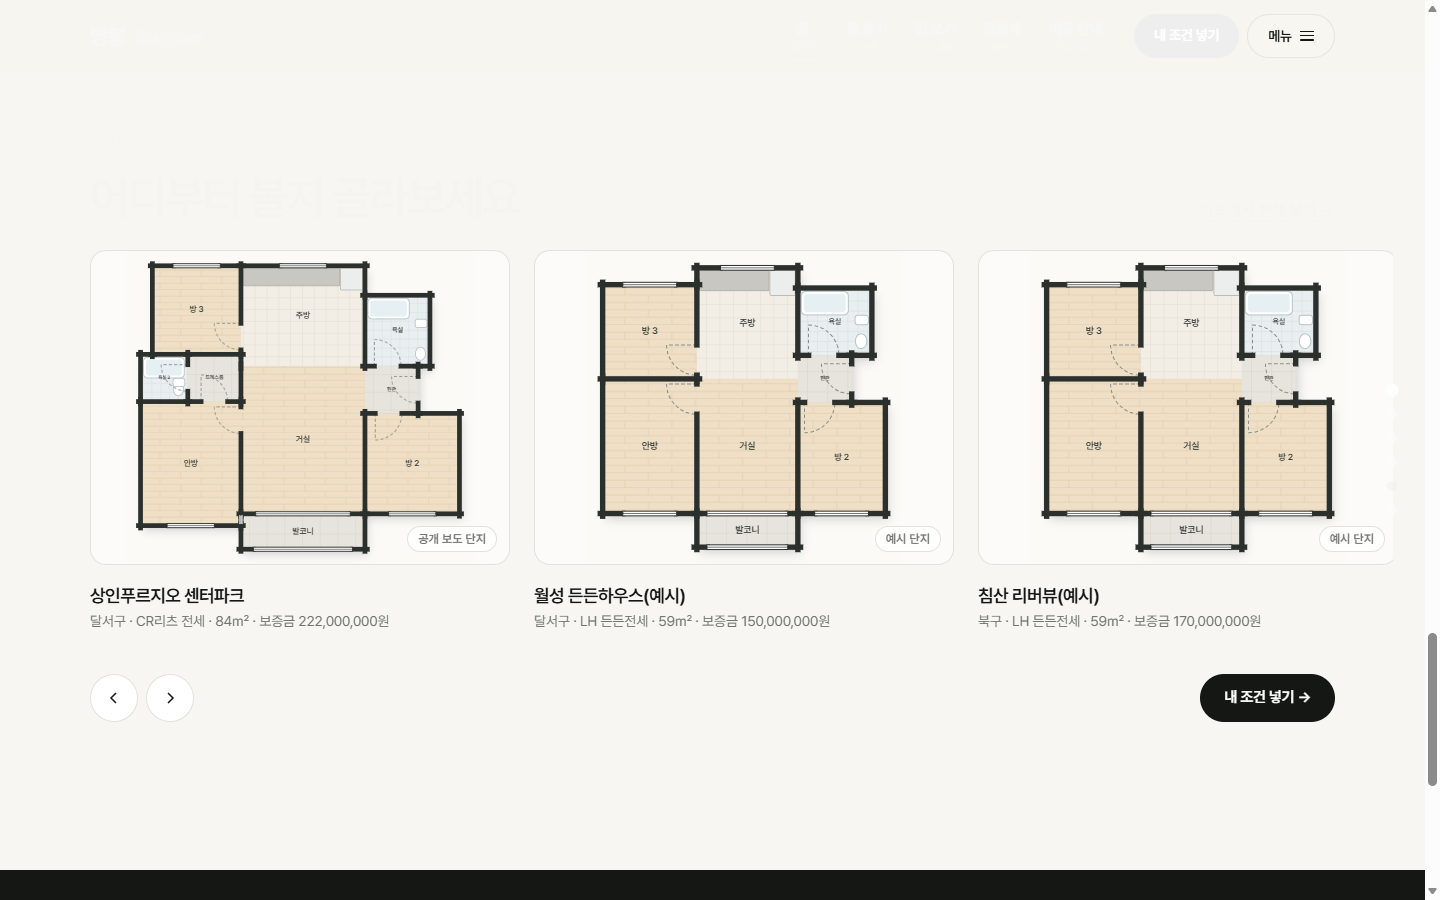
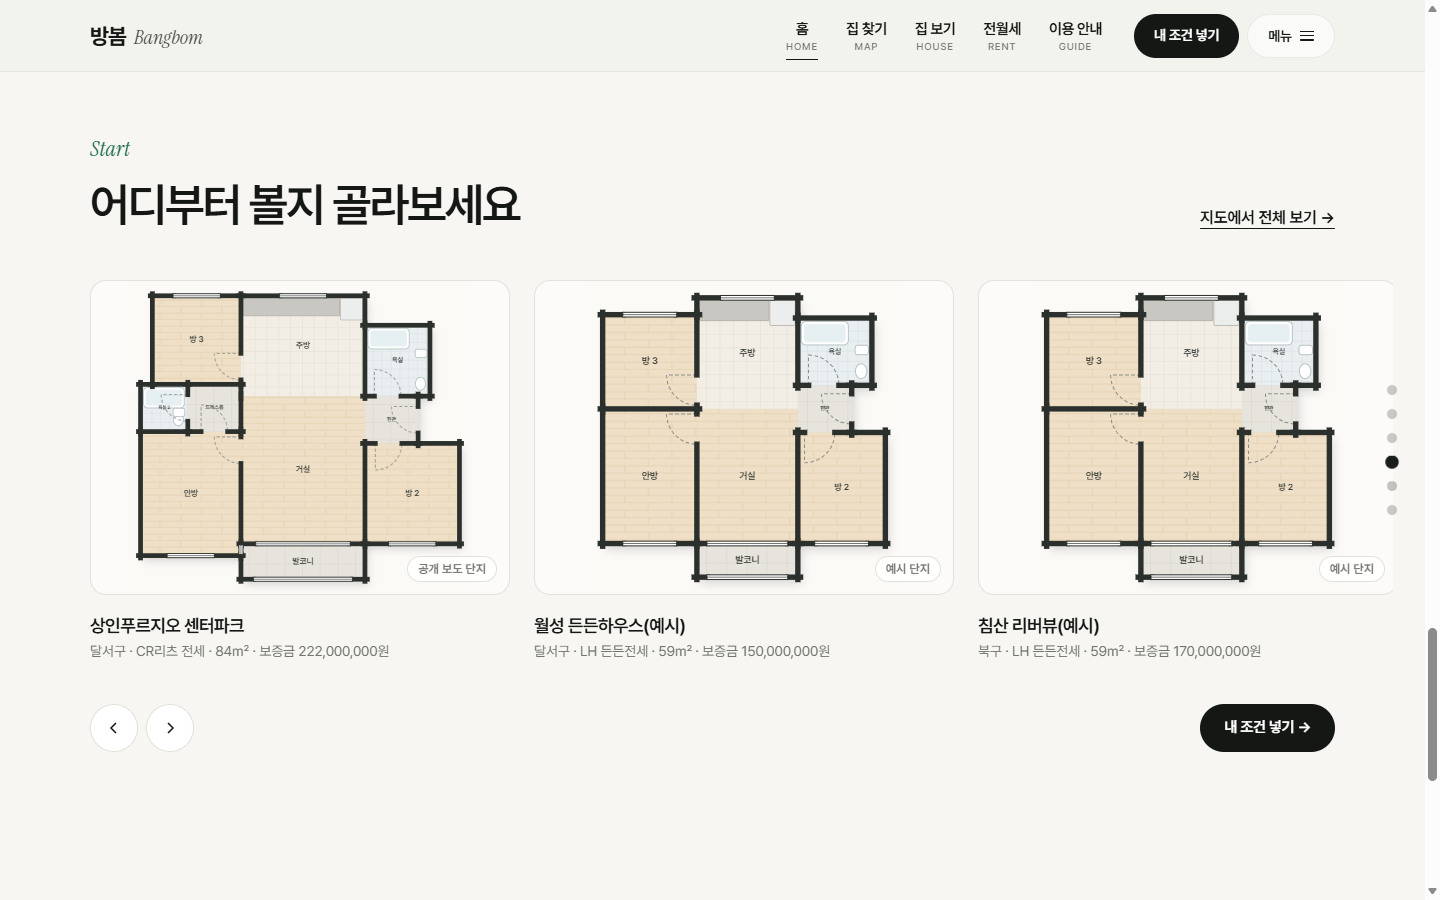
시연 영상 참고 그림 18장을 지금 사이트에서 모두 새로 찍고 요청서 그림 목록 갱신

diff --git a/reports/시연영상_기획요청_Gemini.md b/reports/시연영상_기획요청_Gemini.md
@@ -3,7 +3,7 @@
 > 이 문서를 받는 AI(Gemini)에게: 아래 서비스 "방봄"의 **시연 녹화 영상 기획안**을 만들어 주세요.
 > 참고 화면은 같은 폴더의 `video-ref/` 그림 18장이에요(파일 이름에 번호와 화면 이름이 있어요).
 > 공개 사이트: https://bangkkumi2.vercel.app
-> 고친 날: 2026-11-27 (평면도 모양, 지도, 집 보기 화면이 바뀌어서 그림 05·08·09를 새로 찍고 16~18을 더했어요)
+> 고친 날: 2026-11-27. 그림 18장은 모두 이날 사이트에서 새로 찍었어요 (PC 1440×900, 휴대폰 390×844)
 
 ---
 
@@ -57,7 +57,7 @@
 - **지도의 "전월세 기록" 단추**: 누르면 건물 자리마다 파란 점이 생기고, 점을 누르면 그 건물의 월세·전세 중간값과 최근 계약 목록 카드가 열려요.
 - 장면 아이디어: 사용자가 "원룸"과 "월세 50만 원 이하"를 고르면 목록이 줄어들고, 지도로 넘어가 파란 점을 누르면 카드가 열리는 흐름.
 - 지켜 주세요: 카드에는 **"신고된 지난 계약이에요 · 지금 나와 있는 매물은 아니에요"** 문구가 있어요. 영상에서도 "지금 매물"이라고 말하지 말아 주세요.
-- 주의: 그림 12, 13의 "검사 건물 ○" 이름과 금액은 화면 확인용 임시 자료예요. 영상에서는 그럴듯한 대구 동네 이름(범어동, 대명동, 침산동 등)과 현실적인 금액으로 바꿔 주세요.
+- 주의: 그림 12, 13의 "예시 빌라 ○" 같은 건물 이름과 금액은 화면 모양을 보이려고 잠깐 넣은 **시연용 예시 자료**예요(출처 칸에도 "시연용 예시"라고 나와요). 영상에서는 그럴듯한 건물 이름과 현실적인 금액으로 바꿔 주세요.
 
 ### 4-2. AI 실사 렌더링 (그림 11)
 - 방꾸미 3D 화면에서 가구 배치를 끝내고 **[AI 렌더링]** 단추를 누르면, 같은 배치를 **실사 사진처럼** 바꿔서 창으로 보여 주는 기능이에요(Gemini 이미지 모델 연결).
@@ -91,21 +91,21 @@
 
 | 파일 | 화면 |
 | :-- | :-- |
-| 01_홈_히어로.jpg | 홈 첫 화면 (히어로 + AI 상담 카드) |
-| 02_홈_문제.jpg | 문제: 67.6% · 3,077세대 |
-| 03_홈_해결1_지원찾기.jpg | 해결 1: 조건 → 하나씩 따지기 → 같이 못 받는 것 거르기 |
-| 04_홈_해결2_지도집보기.jpg | 해결 2: 지도 · 평면도와 3D · 가구 (칩으로 바꿔 보기) |
-| 05_홈_시작하기.png | 시작하기: 단지 평면 카드 (새 평면도 모양. 제목이 나타나는 중에 찍혀서 흐려요) |
-| 06_지도_판정결과.png | 지도 + 판정 결과 패널 ("이렇게 하면 열려요"). 예전 그림이라 배경 건물이 적어요. 지금 지도는 그림 16처럼 빽빽해요 |
-| 07_단지카드_크게보기.png | 단지 카드 크게 보기 (평면도는 예전 직사각형 모양. 지금은 그림 16의 카드처럼 들쭉날쭉한 모양) |
-| 08_집전체_3D_위에서.png | 집 전체 3D (위에서) |
-| 09_집전체_3D_걷기.png | 집 전체 3D (안에서 걷기) |
-| 10_방꾸미_3D.png | 방꾸미 3D (가구 놓기) |
+| 01_홈_히어로.png | 홈 첫 화면 (히어로 + AI 상담 카드) |
+| 02_홈_문제.png | 문제: 67.6% · 3,077세대 |
+| 03_홈_해결1_지원찾기.png | 해결 1: 조건 → 하나씩 따지기 → 같이 못 받는 것 거르기 |
+| 04_홈_해결2_지도집보기.png | 해결 2: 지도 · 평면도와 3D · 가구 (칩으로 바꿔 보기) |
+| 05_홈_시작하기.png | 시작하기: 들쭉날쭉한 아파트 평면도 카드 |
+| 06_지도_판정결과.png | 시연 입력값(27세 · 월 2,500,000원 · 모은 돈 45,000,000원 · 예산 600,000원)으로 본 지도 + 판정 결과 (요건 충족 3 · 확인 필요 1 · 미충족 4) |
+| 07_단지카드_크게보기.png | 단지 카드 크게 보기: 지원 반영 월 부담, 계산 내역, 적용 지원 |
+| 08_집전체_3D_위에서.png | 집 전체 3D (위에서). 안방에 침대·옷장이 놓여 있음 |
+| 09_집전체_3D_걷기.png | 집 전체 3D (안방에 서서 보기) |
+| 10_방꾸미_3D.png | 방꾸미 3D (가구 놓기, 피드백) |
 | 11_AI렌더링_창_지금상태.png | AI 렌더링 창의 모양 (지금은 3D 그림 그대로 나옴 → 영상에서는 실사 사진으로) |
-| 12_전월세화면_검사용자료.png | 전월세 화면 모양 (임시 자료) |
-| 13_지도_전월세기록_검사용자료.png | 지도의 전월세 기록 점과 카드 (임시 자료) |
-| 14_AI상담.png | AI 상담 챗봇 |
-| 15_휴대폰_해결2.jpg | 휴대폰 화면 예 |
-| 16_지도_단지선택.png | 지금 지도: 빽빽한 배경 건물 + 단지를 눌러 주변 시설 선과 단지 카드가 열린 모습 |
-| 17_집보기_전체구조.png | 집 보기 첫 화면: 새 평면도 + 치수선 + 꾸밀 방 목록 |
+| 12_전월세화면.png | 전월세 화면: 원룸 + 월세 최대 500,000원으로 거른 목록 (시연용 예시 자료) |
+| 13_지도_전월세기록.png | 지도의 [전월세 기록]을 켜고 건물 점을 눌러 연 카드 (시연용 예시 자료) |
+| 14_AI상담.png | AI 상담: "달서구, 전세 2억 5천 이하" → 조건 반영 → 후보 카드 |
+| 15_휴대폰_해결2.png | 휴대폰 홈 해결 2 화면 |
+| 16_지도_단지선택.png | 단지를 눌러 가까이 다가가고 주변 시설 선과 단지 카드가 열린 모습 |
+| 17_집보기_전체구조.png | 집 보기 첫 화면: 평면도 + 치수선 + 꾸밀 방 목록 |
 | 18_휴대폰_집보기.png | 휴대폰의 집 보기 |
